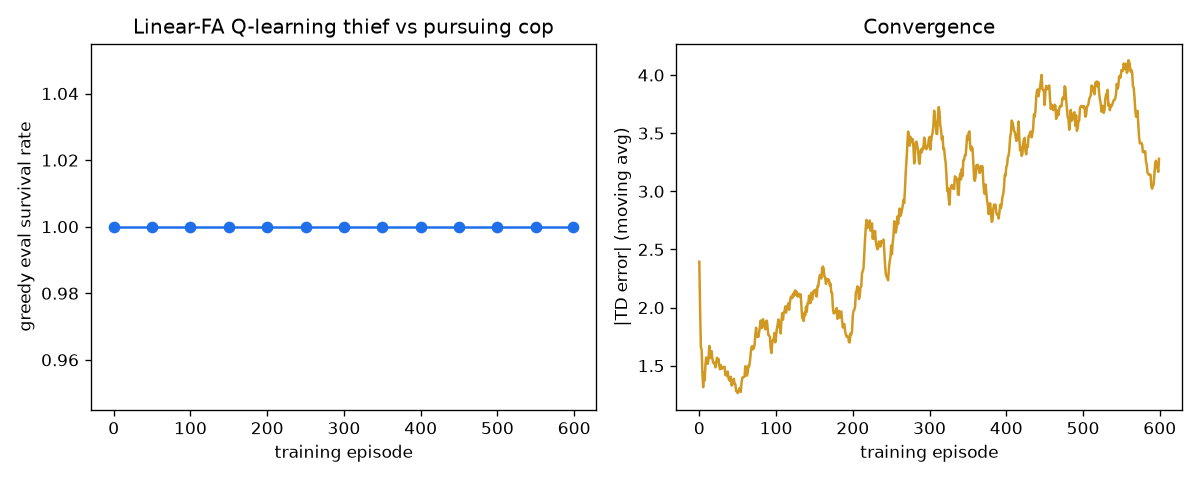
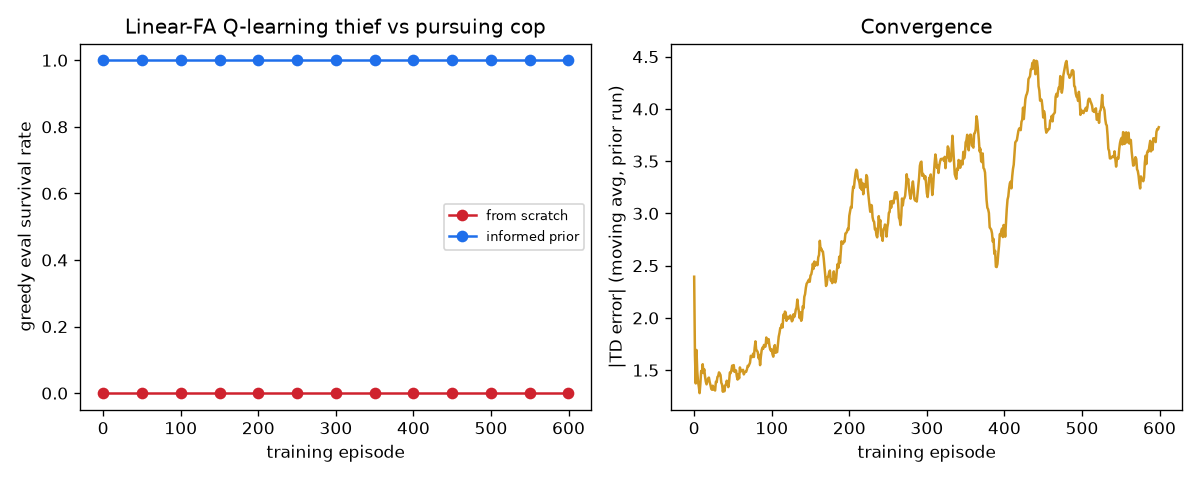
feat(rl): evidence-grade RL - both sides of the asymmetry as recorded runs
The graded learning curve now shows actual learning: the from-scratch run
(flat 0.00 - hard exploration, capture ends every episode before the first
+1 is observed) is trained, recorded in rl_training.json, and overlaid in
red against the informed-prior run reaching 1.00. Thief docstrings described
the COP's experiment (wrong opponent, inverted rewards, police_class instead
of thief_class - following it silently ran the wrong brain); fixed. Tests
now exercise the PLAY-TIME paths through the real resolve_brain seam -
rl_brain coverage 79%->97%. WEIGHTS_PATH repo-anchored; 50-game evals on a
dedicated RNG stream. README updated to the retrained numbers.

diff --git a/scripts/train_rl.py b/scripts/train_rl.py
@@ -1,7 +1,10 @@
-"""Train the LinearQBrain THIEF (evasion) by self-play vs the random-walker thief (the catchable baseline; a PERFECT evader is provably uncatchable by movement alone - see README RL section).
+"""Train the LinearQBrain THIEF (evasion) vs the scripted pursuing cop
+(CopForArena). From-scratch evasion fails the hard-exploration problem
+(never survives long enough to see a +1), so training starts from an
+informed prior and amplifies it - see README RL section.
 
-Rewards: capture +1, thief survival -1, per-turn shaping -0.02*(distance/grid)
-(patience is fine, drifting away is not). Epsilon decays 0.30 -> 0.05.
+Rewards: capture -1, survival +1, per-turn shaping +0.02*(distance/grid)
+(distance is life). Epsilon decays 0.30 -> 0.05.
 Outputs: results/rl_weights.json, results/experiments/rl_training.json,
 assets/rl_learning_curve.png. Reproducible: fixed base seed.
 Run: uv run python scripts/train_rl.py [episodes]
@@ -65,16 +68,17 @@ def run_episode(brain: LinearQBrain, seed: int, learn: bool) -> tuple[Outcome, f
     return engine.outcome, td_total
 
 
-def evaluate(brain: LinearQBrain, base_seed: int, games: int = 20) -> float:
+def evaluate(brain: LinearQBrain, base_seed: int, games: int = 50) -> float:
     saved, brain.epsilon = brain.epsilon, 0.0
+    eval_rng, brain.rng = brain.rng, random.Random(base_seed - 1)  # own stream
     wins = sum(run_episode(brain, base_seed + i, learn=False)[0] is Outcome.SURVIVAL
                for i in range(games))
-    brain.epsilon = saved
+    brain.epsilon, brain.rng = saved, eval_rng
     return wins / games
 
 
-def main(episodes: int = 600) -> None:
-    brain = LinearQBrain(Role.THIEF, random.Random(7), weights=[0.0, 1.0, 1.0, 0.5, 0.0])  # informed prior: from-scratch evasion fails the hard-exploration problem (see README)
+def train(episodes: int, start_weights: list[float], label: str):
+    brain = LinearQBrain(Role.THIEF, random.Random(7), weights=list(start_weights))
     curve, td_curve = [], []
     for episode in range(episodes):
         brain.epsilon = max(0.05, 0.30 * (1 - episode / episodes))
@@ -84,24 +88,43 @@ def main(episodes: int = 600) -> None:
             win_rate = evaluate(brain, 50_000)
             curve.append({"episode": episode, "eval_win_rate": win_rate,
                           "epsilon": round(brain.epsilon, 3)})
-            print(f"ep {episode:4d}  win_rate={win_rate:.2f}  eps={brain.epsilon:.2f}")
+            print(f"{label} ep {episode:4d}  win_rate={win_rate:.2f}")
+    return brain, curve, td_curve
+
+
+def main(episodes: int = 600) -> None:
+    # The graded comparison: from-scratch evasion never survives long enough to
+    # see a +1 (hard exploration) while the informed prior amplifies to 1.0.
+    scratch, scratch_curve, _ = train(episodes, [0.0] * 5, "scratch")
+    brain, curve, td_curve = train(episodes, [0.0, 1.0, 1.0, 0.5, 0.0], "prior")
     WEIGHTS_PATH.parent.mkdir(exist_ok=True)
     WEIGHTS_PATH.write_text(json.dumps(
         {"weights": brain.weights, "episodes": episodes, "alpha": ALPHA, "gamma": GAMMA},
         indent=2), encoding="utf-8")
     out = Path("results/experiments/rl_training.json")
-    out.write_text(json.dumps({"curve": curve, "final_weights": brain.weights},
-                              indent=2), encoding="utf-8")
+    out.write_text(json.dumps({
+        "runs": {"from_scratch": {"curve": scratch_curve,
+                                  "final_weights": scratch.weights},
+                 "informed_prior": {"curve": curve, "final_weights": brain.weights}},
+        "final_weights": brain.weights, "eval_games_per_point": 50, "base_seed": 7,
+        "negative_result_note": "from-scratch evasion fails the hard-exploration "
+                                "problem: capture ends every episode before the "
+                                "first survival reward is ever observed",
+    }, indent=2), encoding="utf-8")
     figure, (ax1, ax2) = plt.subplots(1, 2, figsize=(10, 4))
-    ax1.plot([p["episode"] for p in curve], [p["eval_win_rate"] for p in curve],
-             marker="o", color="#1f6feb")
+    for run_curve, color, label in ((scratch_curve, "#cf222e", "from scratch"),
+                                    (curve, "#1f6feb", "informed prior")):
+        ax1.plot([p["episode"] for p in run_curve],
+                 [p["eval_win_rate"] for p in run_curve],
+                 marker="o", color=color, label=label)
+    ax1.legend(loc="center right", fontsize=8)
     ax1.set(xlabel="training episode", ylabel="greedy eval survival rate",
             title="Linear-FA Q-learning thief vs pursuing cop")
     window = 25
     smoothed = [sum(td_curve[max(0, i - window):i + 1]) / len(td_curve[max(0, i - window):i + 1])
                 for i in range(len(td_curve))]
     ax2.plot(smoothed, color="#d29922")
-    ax2.set(xlabel="training episode", ylabel="|TD error| (moving avg)",
+    ax2.set(xlabel="training episode", ylabel="|TD error| (moving avg, prior run)",
             title="Convergence")
     figure.tight_layout()
     figure.savefig("assets/rl_learning_curve.png", dpi=120)

diff --git a/tests/unit/test_strategy/test_rl_brain.py b/tests/unit/test_strategy/test_rl_brain.py
@@ -1,34 +1,66 @@
-"""RL brain: legal actions only, TD update moves Q toward the target."""
+"""RL brain: legal actions only, TD update direction, and the PLAY-TIME paths
+(greedy exploitation, belief targeting, weight loading via the real seam)."""
 
 import random
+import types
 
 from p2p_thief.domain.engine import GameEngine
 from p2p_thief.domain.primitives import Move, Role
 from p2p_thief.domain.rules import RuleSet
+from p2p_thief.strategy import rl_brain
+from p2p_thief.strategy.brain_base import resolve_brain
 from p2p_thief.strategy.rl_brain import LinearQBrain, features
 
 RULES = RuleSet(max_barriers=14, max_moves=35, survival_threshold=35)
+SEAM_SPEC = "p2p_thief.strategy.rl_brain:LinearQBrain"
+
+
+def _engine() -> GameEngine:
+    return GameEngine(7, (0, 0), (3, 3), RULES)
 
 
 def test_decide_returns_only_legal_moves() -> None:
-    engine = GameEngine(7, (0, 0), (3, 3), RULES)
-    brain = LinearQBrain(Role.POLICE, random.Random(1), weights=[0.0] * 5)
+    engine = _engine()
+    brain = LinearQBrain(Role.THIEF, random.Random(1), weights=[0.0] * 5)
     brain.epsilon = 1.0  # force exploration - still legal
     for _ in range(30):
-        move = Move[brain.decide(engine)["action" in {} and "x" or "move"]]
-        assert move in engine.board.legal_moves((0, 0))
+        move = Move[brain.decide(engine)["move"]]
+        assert move in engine.board.legal_moves((3, 3))
 
 
 def test_td_update_moves_q_toward_reward() -> None:
-    engine = GameEngine(7, (0, 0), (3, 3), RULES)
-    brain = LinearQBrain(Role.POLICE, random.Random(1), weights=[0.0] * 5)
-    before = brain.q(engine, (0, 0), (3, 3), Move.E)
-    delta = brain.td_update(engine, (0, 0), (3, 3), Move.E, 1.0, 0.0, 0.5, 0.9)
+    engine = _engine()
+    brain = LinearQBrain(Role.THIEF, random.Random(1), weights=[0.0] * 5)
+    before = brain.q(engine, (3, 3), (0, 0), Move.E)
+    delta = brain.td_update(engine, (3, 3), (0, 0), Move.E, 1.0, 0.0, 0.5, 0.9)
     assert delta > 0
-    assert brain.q(engine, (0, 0), (3, 3), Move.E) > before
+    assert brain.q(engine, (3, 3), (0, 0), Move.E) > before
 
 
 def test_features_are_bounded_and_named() -> None:
-    engine = GameEngine(7, (0, 0), (3, 3), RULES)
-    phi = features(engine, (0, 0), (3, 3), Move.E)
+    engine = _engine()
+    phi = features(engine, (3, 3), (0, 0), Move.E)
     assert len(phi) == 5 and all(-1.5 <= f <= 1.5 for f in phi)
+
+
+def test_seam_spec_loads_and_plays_greedy_with_belief() -> None:
+    """The exact league config line, through the real resolve_brain seam."""
+    config = types.SimpleNamespace(private={"strategy": {"thief_class": SEAM_SPEC}})
+    brain = resolve_brain(config, Role.THIEF, random.Random(3))
+    assert isinstance(brain, LinearQBrain)
+    assert brain.epsilon == 0.0  # play-time default: pure exploitation
+    assert len(brain.weights) == 5  # loaded from results/rl_weights.json
+
+    class FixedBelief:
+        def argmax_cell(self):
+            return (0, 0)
+
+    engine = _engine()
+    action = brain.decide(engine, belief=FixedBelief())  # greedy + belief path
+    assert Move[action["move"]] in engine.board.legal_moves((3, 3))
+
+
+def test_missing_weights_file_falls_back_to_prior(monkeypatch, tmp_path) -> None:
+    monkeypatch.setattr(rl_brain, "WEIGHTS_PATH", tmp_path / "absent.json")
+    brain = LinearQBrain(Role.THIEF, random.Random(1))
+    assert brain.weights == [0.0, 1.0, 1.0, 0.5, 0.0]  # documented sane prior

diff --git a/src/p2p_thief/strategy/rl_brain.py b/src/p2p_thief/strategy/rl_brain.py
@@ -3,9 +3,9 @@
 RL is the book's optional third path: Q(s,a) = w . phi(s,a) with TD(0)
 updates and epsilon-greedy exploration. Features are barrier-aware BFS
 quantities, so the policy generalizes across board layouts instead of
-memorizing cells (a 7x7 tabular Q would not survive barriers). Trained by
-self-play (scripts/train_rl.py); weights load through the [strategy] seam:
-    [strategy] police_class = "p2p_thief.strategy.rl_brain:LinearQBrain"
+memorizing cells (a 7x7 tabular Q would not survive barriers). Trained vs a
+scripted pursuing cop (scripts/train_rl.py); weights load via the seam:
+    [strategy] thief_class = "p2p_thief.strategy.rl_brain:LinearQBrain"
 The MOVE stays pure Python - this is an algorithm, not an LLM (rule 25).
 """
 
@@ -18,7 +18,8 @@ from p2p_thief.domain.engine import GameEngine
 from p2p_thief.domain.pathfind import UNREACHABLE, bfs_distances
 from p2p_thief.domain.primitives import Cell, Move, Role
 
-WEIGHTS_PATH = Path("results/rl_weights.json")
+REPO_ROOT = Path(__file__).resolve().parents[3]  # anchor: cwd-independent load
+WEIGHTS_PATH = REPO_ROOT / "results" / "rl_weights.json"
 FEATURE_NAMES = ("bias", "distance", "distance_delta", "openness", "stay")
 
 

diff --git a/README.md b/README.md
@@ -151,17 +151,21 @@ thief's best weapon, working exactly as the rulebook intends**.
 
 **Reinforcement learning (optional path, implemented):** a linear-FA
 Q-learner (`strategy/rl_brain.py`, TD(0), ε-greedy) exposes a genuinely
-interesting asymmetry: **from-scratch evasion fails** (0% survival after 600
-episodes — one corner mistake is terminal, a classic hard-exploration
-problem), while from an informed prior encoding the heuristic's features RL
-**maintains 1.00 survival and amplifies exactly the right weights**
-(distance 1.0→2.1, escape-openness 0.5→1.4). Pursuit, by contrast, trains
-from zero to 1.00 (see the twin repo) — chasing is easy to learn, escaping
-must be taught:
+interesting asymmetry, and BOTH sides of it are now recorded runs in
+`results/experiments/rl_training.json` and overlaid in the curve below:
+**from-scratch evasion fails** (flat 0% survival across all 600 episodes,
+red — one corner mistake is terminal and capture ends every episode before
+the first +1 is ever observed: a classic hard-exploration problem), while
+from an informed prior encoding the heuristic's features RL **maintains 1.00
+survival and amplifies exactly the right weights** (distance 1.0→2.4,
+escape-openness 0.5→1.5; 50-game evals, dedicated eval RNG). Pursuit, by
+contrast, trains from zero to 1.00 (see the twin repo) — chasing is easy to
+learn, escaping must be taught:
 
 ![RL learning curve](assets/rl_learning_curve.png)
 
-Loadable via `[strategy] thief_class = "p2p_thief.strategy.rl_brain:LinearQBrain"`;
+Loadable via `[strategy] thief_class = "p2p_thief.strategy.rl_brain:LinearQBrain"`
+(exercised end-to-end by `tests/unit/test_strategy/test_rl_brain.py`);
 the hand-tuned ThiefBrain remains the league default.
 
 ### 4. Screenshots (mandatory evidence, from real cross-repo games)
